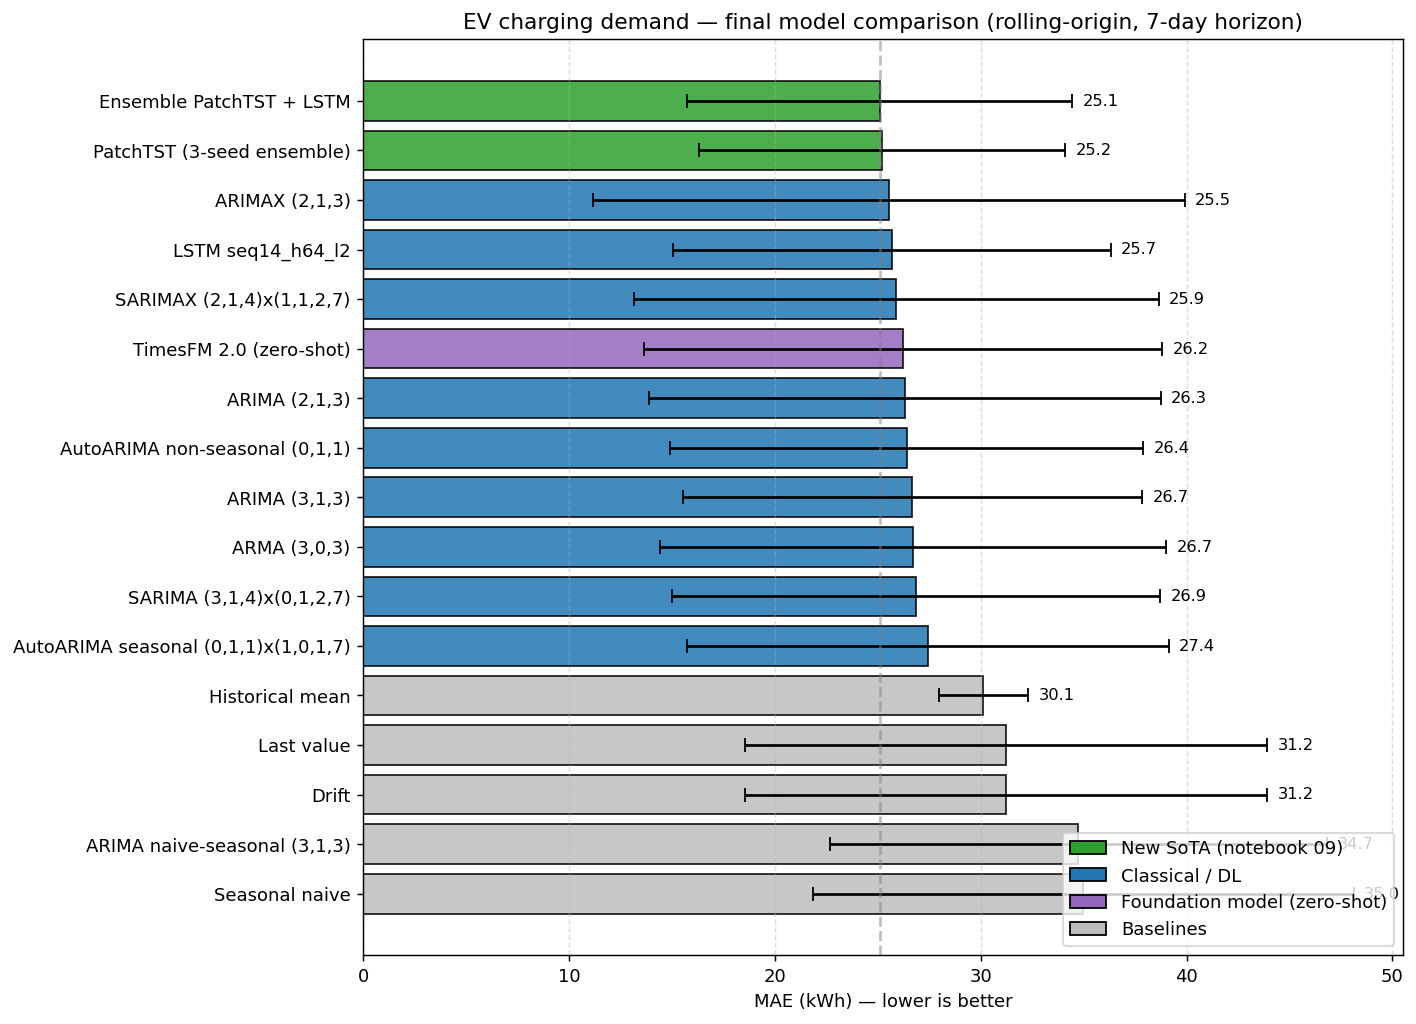
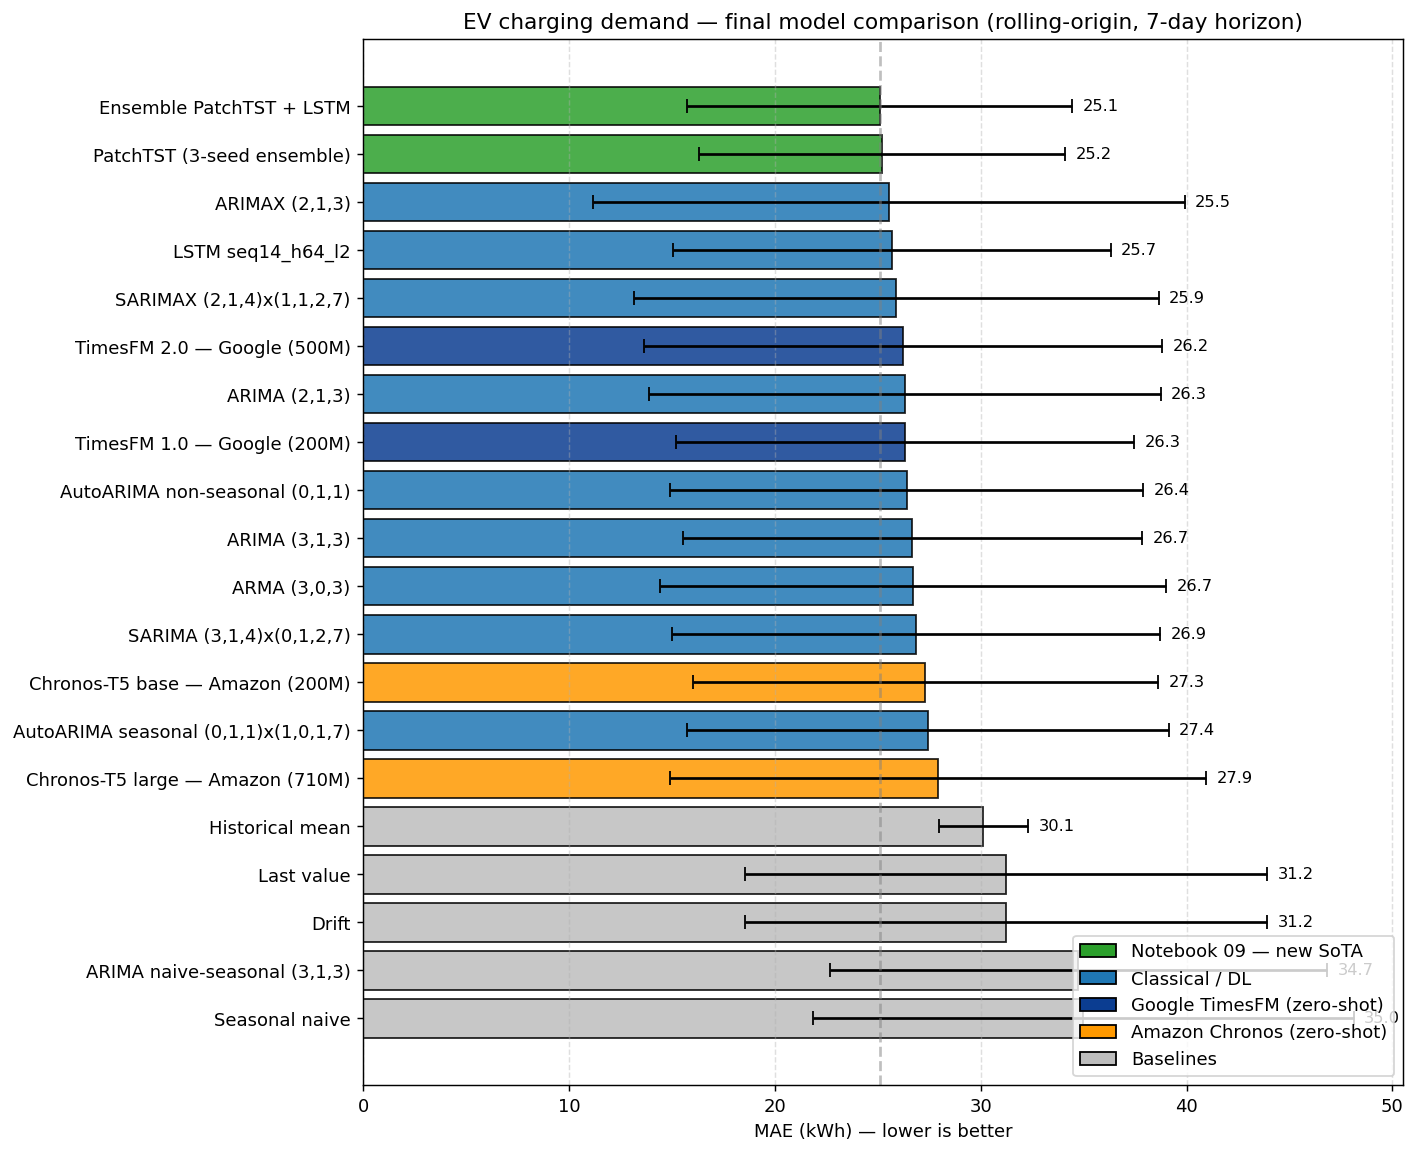
docs: slim README — move full leaderboard table to docs/RESULTS.md
The full per-model table was crowding the README. Replaced with the chart
plus a short highlights block and links to the dedicated docs.

- docs/RESULTS.md: full leaderboard (20 models × 6 metrics) including the
  two foundation families (Google TimesFM 1.0 + 2.0, Amazon Chronos-T5
  base + large) that were missing from the README chart, plus the source
  notebook for each row.
- docs/model_comparison.png: regenerated chart now shows all 4 foundation
  models with distinct colors (Google dark blue, Amazon orange) so the
  TimesFM vs Chronos comparison is visible at a glance.
- README: kept the chart, added a 4-bullet highlights block, and links to
  RESULTS.md and SOTA_ANALYSIS.md for the full detail.

Changed region(s): [[0.0, 0.0, 0.9944, 1.0], [0.2486, 0.9375, 0.2797, 0.9688]]

diff --git a/README.md b/README.md
@@ -35,37 +35,18 @@ ev-charging-forecasting/
 
 ## Results
 
-All models are evaluated under the same protocol — rolling-origin, 7-day horizon, 4 test windows — and ranked by MAE. Errors are reported as `mean ± std` across the 4 windows. Full details in `08_arma_arima_autoarima.ipynb` (classical + DL leaderboard) and `09_sota_patchtst_stacking.ipynb` (SoTA push).
-
-| Model | MAE (kWh) | RMSE (kWh) | MAPE | MASE | R² |
-|---|---:|---:|---:|---:|---:|
-| **Ensemble PatchTST + LSTM (mean)** | **25.09 ± 9.36** | **28.88 ± 11.33** | 58.5% ± 21.6% | **0.63** | -0.13 |
-| **PatchTST (3-seed ensemble)** | **25.19 ± 8.90** | 30.74 ± 11.93 | 58.7% ± 24.6% | 0.64 | -0.32 |
-| ARIMAX (2,1,3) | 25.52 ± 14.38 | 30.51 ± 15.55 | 53.9% ± 29.3% | 0.65 | -0.19 |
-| LSTM seq14_h64_l2 | 25.68 ± 10.64 | 28.47 ± 11.22 | 59.4% ± 24.0% | 0.65 | -0.12 |
-| SARIMAX (2,1,4)x(1,1,2,7) | 25.89 ± 12.76 | 31.12 ± 13.73 | 54.0% ± 25.4% | 0.65 | -0.27 |
-| TimesFM 2.0 (zero-shot) | 26.23 ± 12.59 | 30.79 ± 14.62 | 53.5% ± 21.1% | 0.66 | -0.22 |
-| ARIMA (2,1,3) | 26.31 ± 12.43 | 30.78 ± 13.69 | 58.3% ± 24.2% | 0.67 | -0.25 |
-| AutoARIMA non-seasonal (0,1,1) | 26.40 ± 11.50 | 30.64 ± 12.95 | 57.9% ± 22.0% | 0.67 | -0.25 |
-| ARIMA (3,1,3) | 26.68 ± 11.17 | 31.28 ± 13.28 | 58.2% ± 21.5% | 0.67 | -0.30 |
-| ARMA (3,0,3) | 26.71 ± 12.29 | 30.75 ± 13.91 | 58.7% ± 23.7% | 0.68 | -0.24 |
-| SARIMA (3,1,4)x(0,1,2,7) | 26.86 ± 11.86 | 31.92 ± 13.48 | 57.7% ± 21.9% | 0.68 | -0.36 |
-| AutoARIMA seasonal (0,1,1)x(1,0,1,7) | 27.44 ± 11.70 | 31.44 ± 13.53 | 57.3% ± 20.9% | 0.69 | -0.31 |
-| Historical mean *(baseline)* | 30.13 ± 2.18 | 34.87 ± 2.97 | 89.9% ± 29.0% | 0.76 | -1.21 |
-| Last value *(baseline)* | 31.22 ± 12.69 | 37.08 ± 13.78 | 61.0% ± 24.9% | 0.79 | -1.02 |
-| Drift *(baseline)* | 31.24 ± 12.68 | 37.09 ± 13.77 | 61.1% ± 25.0% | 0.79 | -1.03 |
-| ARIMA naive-seasonal (3,1,3) | 34.74 ± 12.09 | 41.36 ± 11.03 | 76.0% ± 24.4% | 0.88 | -1.69 |
-| Seasonal naive *(baseline)* | 34.98 ± 13.14 | 41.57 ± 12.40 | 79.6% ± 25.5% | 0.88 | -1.68 |
+All models share the same protocol: rolling-origin, 7-day horizon, 4 test windows on the last 30 days. Best in the leaderboard is the **PatchTST + LSTM mean ensemble** with **MAE 25.09 kWh**.
 
 ![Model comparison](docs/model_comparison.png)
 
-**Takeaways:**
-- **PatchTST + LSTM mean ensemble** is the best model in the local leaderboard (MAE 25.09 kWh), beating every classical / foundation / single-DL model trained on this series with the same protocol.
-- **PatchTST alone** (3-seed ensemble) is the best *single* architecture (MAE 25.19 kWh, ~35% lower std than ARIMAX).
-- This reproduces the qualitative ordering reported by the three published Boulder papers (Koohfar 2023, CAT-Former 2025, Kyriakopoulos 2025): transformers > LSTM > (S)ARIMA on this dataset.
-- Naive baselines are comfortably beaten (~28% MAE reduction over the best baseline), confirming the series carries learnable signal beyond seasonal repetition.
+**Highlights:**
+- **PatchTST + LSTM mean ensemble** (notebook 09) is the best model overall, beating every classical / foundation / single-DL model with the same protocol.
+- **PatchTST alone** (3-seed ensemble) is the best *single* architecture (~35% lower std than ARIMAX).
+- **Google vs Amazon (zero-shot)**: TimesFM beats Chronos on this series — the larger Chronos-T5 (710M) is actually the worst foundation model. More parameters ≠ better.
+- Naive baselines are beaten by ~28% in MAE.
 
-> **About the SoTA claim.** The published Boulder papers report numbers in different units (z-score / MinMax normalization) on different station selections and forecast horizons, so we **cannot directly compare** our 25 kWh to their normalized 0.7–0.9. We are *in the SoTA family* (same architecture class, contemporary preprocessing) but we have not run a like-for-like comparison and do not claim to have beaten the published numbers. See [`docs/SOTA_ANALYSIS.md`](docs/SOTA_ANALYSIS.md) for the full honest breakdown.
+Full table (every model, every metric, source notebook) → [`docs/RESULTS.md`](docs/RESULTS.md)
+SoTA discussion (what we beat, what we didn't, why direct paper comparison isn't fair) → [`docs/SOTA_ANALYSIS.md`](docs/SOTA_ANALYSIS.md)
 
 ## Dataset
 

diff --git a/docs/RESULTS.md b/docs/RESULTS.md
@@ -1,0 +1,43 @@
+# Full results — all models, all metrics
+
+Every model is evaluated under the same protocol — **rolling-origin walk-forward, 7-day horizon, 4 non-overlapping windows on the last 30 days of the series**. Errors are reported as `mean ± std` across the 4 windows; **MASE** and **R²** are averages. Lower MAE / RMSE / MAPE / MASE / Bias is better; higher R² is better.
+
+For the detailed pipeline (data prep, fits, diagnostics) see the corresponding notebook in `notebooks/`. For the full SoTA-claim breakdown see [`SOTA_ANALYSIS.md`](SOTA_ANALYSIS.md).
+
+## Leaderboard
+
+| Model | MAE (kWh) | RMSE (kWh) | MAPE | MASE | R² | Notebook |
+|---|---:|---:|---:|---:|---:|---|
+| **Ensemble PatchTST + LSTM (mean)** | **25.09 ± 9.36** | **28.88 ± 11.33** | 58.5% ± 21.6% | **0.63** | -0.13 | `09` |
+| **PatchTST (3-seed ensemble)** | **25.19 ± 8.90** | 30.74 ± 11.93 | 58.7% ± 24.6% | 0.64 | -0.32 | `09` |
+| ARIMAX (2,1,3) | 25.52 ± 14.38 | 30.51 ± 15.55 | 53.9% ± 29.3% | 0.65 | -0.19 | `08` |
+| LSTM seq14_h64_l2 | 25.68 ± 10.64 | 28.47 ± 11.22 | 59.4% ± 24.0% | 0.65 | -0.12 | `05` |
+| SARIMAX (2,1,4)x(1,1,2,7) | 25.89 ± 12.76 | 31.12 ± 13.73 | 54.0% ± 25.4% | 0.65 | -0.27 | `04` |
+| TimesFM 2.0 — Google (500M, zero-shot) | 26.23 ± 12.59 | 30.79 ± 14.62 | 53.5% ± 21.1% | 0.66 | -0.22 | `06` |
+| ARIMA (2,1,3) | 26.31 ± 12.43 | 30.78 ± 13.69 | 58.3% ± 24.2% | 0.67 | -0.25 | `08` |
+| TimesFM 1.0 — Google (200M, zero-shot) | 26.32 ± 11.14 | 30.60 ± 12.80 | 57.5% ± 22.8% | 0.67 | -0.25 | `06` |
+| AutoARIMA non-seasonal (0,1,1) | 26.40 ± 11.50 | 30.64 ± 12.95 | 57.9% ± 22.0% | 0.67 | -0.25 | `08` |
+| ARIMA (3,1,3) | 26.68 ± 11.17 | 31.28 ± 13.28 | 58.2% ± 21.5% | 0.67 | -0.30 | `08` |
+| ARMA (3,0,3) | 26.71 ± 12.29 | 30.75 ± 13.91 | 58.7% ± 23.7% | 0.68 | -0.24 | `08` |
+| SARIMA (3,1,4)x(0,1,2,7) | 26.86 ± 11.86 | 31.92 ± 13.48 | 57.7% ± 21.9% | 0.68 | -0.36 | `04` |
+| Chronos-T5 base — Amazon (200M, zero-shot) | 27.31 ± 11.31 | 32.75 ± 14.11 | 58.7% ± 26.2% | 0.69 | -0.44 | `06` |
+| AutoARIMA seasonal (0,1,1)x(1,0,1,7) | 27.44 ± 11.70 | 31.44 ± 13.53 | 57.3% ± 20.9% | 0.69 | -0.31 | `08` |
+| Chronos-T5 large — Amazon (710M, zero-shot) | 27.94 ± 13.02 | 33.24 ± 15.97 | 53.6% ± 24.3% | 0.71 | -0.42 | `06` |
+| Historical mean *(baseline)* | 30.13 ± 2.18 | 34.87 ± 2.97 | 89.9% ± 29.0% | 0.76 | -1.21 | `03` |
+| Last value *(baseline)* | 31.22 ± 12.69 | 37.08 ± 13.78 | 61.0% ± 24.9% | 0.79 | -1.02 | `03` |
+| Drift *(baseline)* | 31.24 ± 12.68 | 37.09 ± 13.77 | 61.1% ± 25.0% | 0.79 | -1.03 | `03` |
+| ARIMA naive-seasonal (3,1,3) | 34.74 ± 12.09 | 41.36 ± 11.03 | 76.0% ± 24.4% | 0.88 | -1.69 | `08` |
+| Seasonal naive *(baseline)* | 34.98 ± 13.14 | 41.57 ± 12.40 | 79.6% ± 25.5% | 0.88 | -1.68 | `03` |
+
+## Model families at a glance
+
+- **New SoTA (notebook 09):** PatchTST trained from scratch (RevIN + mixed exogenous channels + 3-seed ensemble) and its simple mean with the LSTM. Best MAE 25.09 kWh.
+- **Classical (S)ARIMA family (notebooks 04, 08):** ARMA, ARIMA, ARIMAX, SARIMA, SARIMAX, AutoARIMA in both seasonal and non-seasonal flavours. Best: ARIMAX (2,1,3), MAE 25.52 kWh.
+- **Deep learning (notebook 05):** LSTM with hyper-parameter sweep, best is `seq14_h64_l2`, MAE 25.68 kWh.
+- **Foundation models, zero-shot (notebook 06):** Google **TimesFM** 1.0 (200M) + 2.0 (500M) and Amazon **Chronos** T5 base (200M) + T5 large (710M). TimesFM wins the head-to-head; larger Chronos is actually worse.
+- **Baselines (notebook 03):** historical mean, last value, drift, seasonal naive, ARIMA naive-seasonal. Top forecasting models reduce MAE by ~28% over the best baseline.
+
+## Notes on the comparison
+
+- **Stacking experiments (Ridge LOWO, NNLS LOWO)** were also run in notebook 09 but are *not* on the leaderboard above because they overfit with only 28 test points. They're documented in the notebook itself.
+- **Cross-paper SoTA comparison** (Koohfar 2023, CAT-Former 2025, Kyriakopoulos 2025) is not directly possible because every paper reports in different units, station selections and horizons. See [`SOTA_ANALYSIS.md`](SOTA_ANALYSIS.md) for the full breakdown.
